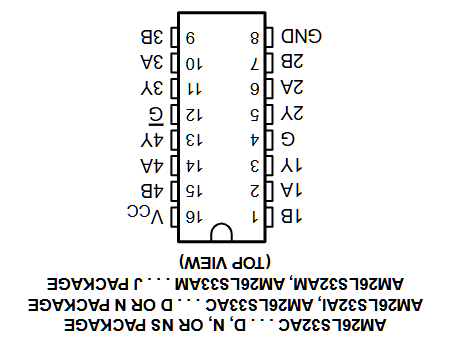
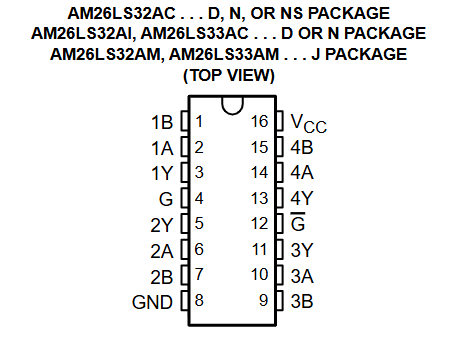
삭제된 사항 반영

Changed region(s): [[0.0617, 0.0, 0.9559, 0.9763]]

diff --git a/Core/Inc/comm_ethernet.h b/Core/Inc/comm_ethernet.h
@@ -5,8 +5,8 @@
  *      Author: kyubeom
  */
 
-#ifndef INC_ETHERNET_H_
-#define INC_ETHERNET_H_
+#ifndef INC_COMM_ETHERNET_H_
+#define INC_COMM_ETHERNET_H_
 
 #include <stdint.h>
 #include <stdbool.h>
@@ -63,4 +63,4 @@ SteerMode_t Ethernet_GetCurrentMode(void);
 bool Ethernet_ConsumeEmergencyRequest(void);
 uint32_t Ethernet_GetLastRxTick(void);
 
-#endif /* INC_ETHERNET_H_ */
+#endif /* INC_COMM_ETHERNET_H_ */

diff --git a/Core/Src/main.c b/Core/Src/main.c
@@ -17,6 +17,7 @@
   */
 /* USER CODE END Header */
 /* Includes ------------------------------------------------------------------*/
+#include <comm_ethernet.h>
 #include "main.h"
 #include "can.h"
 #include "iwdg.h"
@@ -32,7 +33,6 @@
 #include "motor.h"
 #include "control.h"
 #include "config.h"
-#include "ethernet.h"
 #include "svon.h"
 
 /* USER CODE END Includes */

diff --git a/Core/Src/comm_ethernet.c b/Core/Src/comm_ethernet.c
@@ -25,8 +25,7 @@
  *   byte[8]   : misc, bit7 = emergency stop
  */
 
-#include "ethernet.h"
-
+#include <comm_ethernet.h>
 #include "main.h"
 #include "config.h"
 
